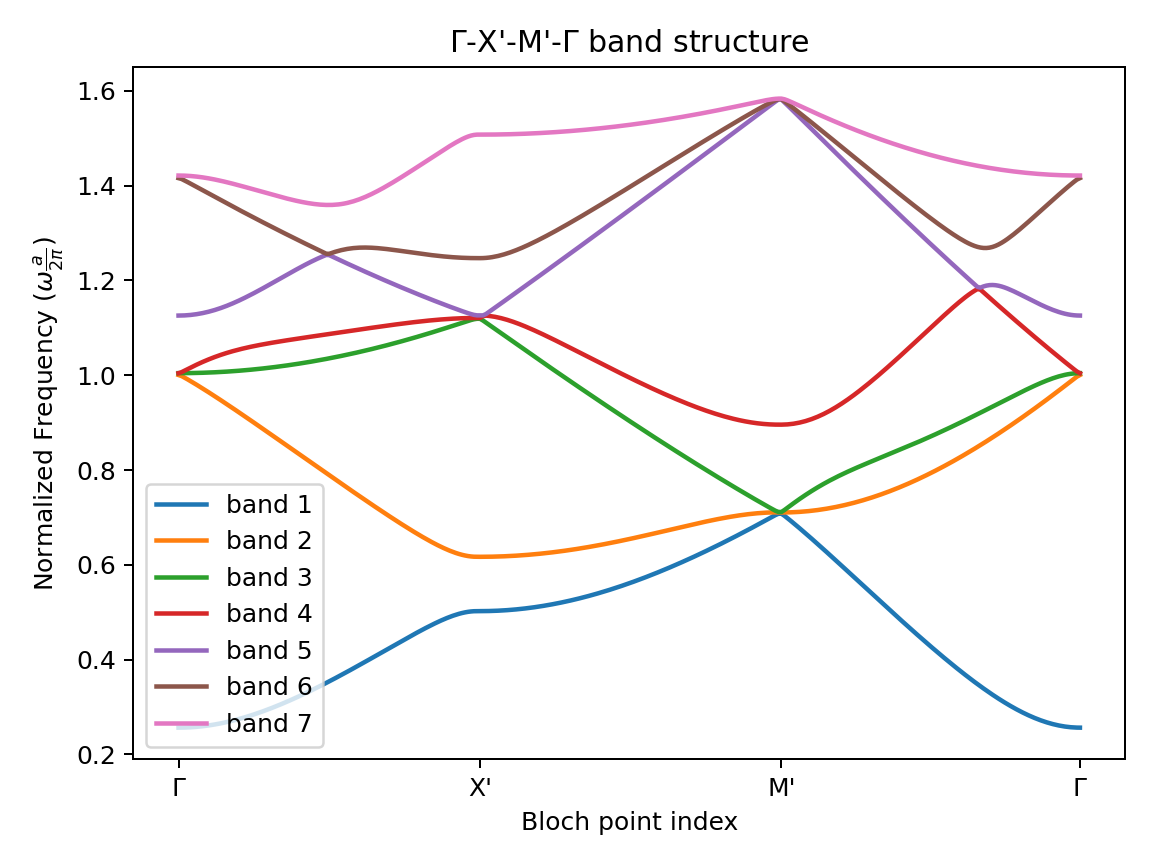
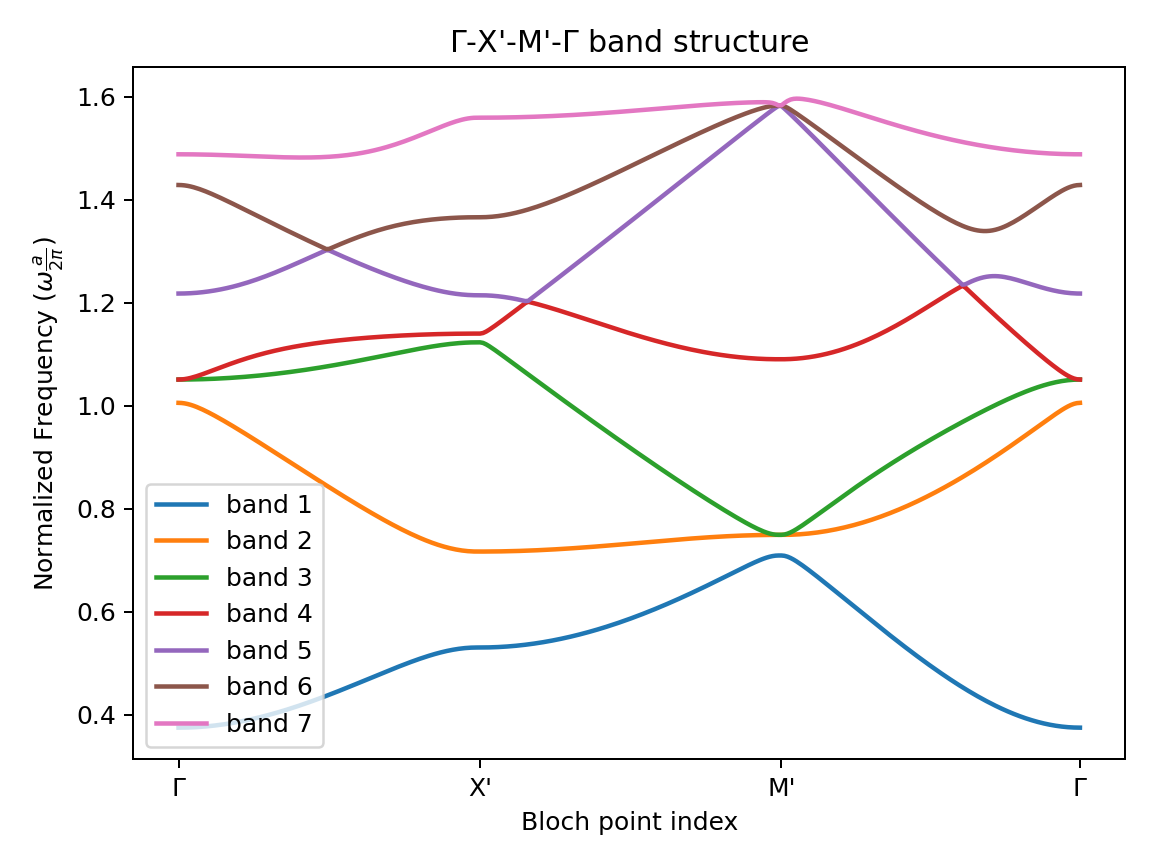
Better graphs and removed the printing labels on the graph.

diff --git a/Translated Code/matlab_translation/main.py b/Translated Code/matlab_translation/main.py
@@ -2,7 +2,7 @@ import sys
 from pathlib import Path
 
 import matplotlib
-# matplotlib.use("Agg")
+#matplotlib.use("Agg")
 matplotlib.use("QtAgg")
 import matplotlib.pyplot as plt
 import cupy as cp #Cupy
@@ -320,9 +320,14 @@ def _solve_lattice_point_bands(
                 n_bands,
             ) * lat_c / (2.0 * np.pi)
 
-    values_at_center = _lowest_characteristic_values(
-        matrices, kappa_center, n_bands
-    )
+    #values_at_center = _lowest_characteristic_values(
+       # matrices, kappa_center, n_bands
+    #)
+    values_at_center = (
+    _lowest_characteristic_values(matrices, kappa_center, n_bands)
+    * lat_c
+    / (2.0 * np.pi)
+)
     directions = {
         "kx": np.array([1.0, 0.0]),
         "ky": np.array([0.0, 1.0]),
@@ -556,27 +561,6 @@ def _plot_lattice_point_bands(
         s=55,
         label="M point",
     )
-    slopes = np.array(estimate["directional_gap_slopes"])[bands]
-    #slopes = estimate["directional_gap_slopes"]
-    slope_text = "\n".join(
-        f"{direction}: {slope:.4g}"
-        for direction, slope in slopes.items()
-    )
-    ax.text2D(
-        0.02,
-        0.98,
-        (
-            f"At {point_label}: " + r"$\lambda_1$" + f"={values_at_m[0]:.6g}, "
-            r"$\lambda_2$" + f"={values_at_m[1]:.6g}\n"
-            f"Direct gap={[f'{gap:.4g}' for gap in np.array(estimate['direct_gap'])[bands]]}\n"
-            f"Mean near-M gap slope={estimate['mean_gap_slope']:.4g}\n"
-            f"Directional slopes (d gap / d|k|):\n{slope_text}"
-        ),
-        transform=ax.transAxes,
-        va="top",
-        fontsize=8,
-        bbox={"facecolor": "white", "alpha": 0.8, "edgecolor": "none"},
-    )
     ax.set_xlabel(r"$\kappa_x/\pi$")
     ax.set_ylabel(r"$\kappa_y/\pi$")
     ax.set_zlabel(r"Normalized characteristic value ($\omega\frac{a}{2\pi}$)")
@@ -638,9 +622,9 @@ def plot_m_point_touching_bands(characteristic_values, kappa_x, kappa_y, estimat
     )
     
     
-def calc_m_point_lowest_touching(lat_c=1.0, PEC_radius=0.1):
+def calc_m_point_lowest_touching(lat_c=1.0, PEC_radius=0.1, mesh_size=0.02):
     M = np.array([np.pi / lat_c, np.pi / lat_c])
-    mesh_size = min(0.02, 0.5 * PEC_radius)
+    mesh_size = min(mesh_size, 0.5 * PEC_radius)
     matrices = _assemble_cell(lat_c=lat_c, mesh_size=mesh_size, PEC_radius=PEC_radius)
     characteristic_vals = _lowest_characteristic_values(matrices, M, 3)
     touching = characteristic_vals[1:3]
@@ -740,13 +724,15 @@ def compare_bands_2_and_3(lat_c=1.0, grid_size=21, mesh_size=0.02, PEC_radius=0.
     return fig, ax
 
 
-def compare_to_analytic_estimate(lat_c=1.0, radii=[0.25, 0.1, 0.01]):
+def compare_to_analytic_estimate(lat_c=1.0, radii=[0.25, 0.1, 0.01], mesh_size=0.02):
     # Compute touching characteristic values at M for several PEC inclusion radii and compare to analyic estimate.
     radii = [0.25, 0.1, 0.01]
     C_0 = 8* (np.pi**3)/(lat_c**3)
+    print(mesh_size)
     for eps in radii:
         estimate = 2*np.pi**2+C_0*(eps**2)
-        touching = calc_m_point_lowest_touching(lat_c=lat_c, PEC_radius=eps)
+        touching = calc_m_point_lowest_touching(lat_c=lat_c, PEC_radius=eps, mesh_size=mesh_size)
+        #fig, ax
         avg = np.mean(touching)
         print(f"Radius = {eps:.2f}   Touch @ M: {touching[0]:.6f}, {touching[1]:.6f}   Averaged: {avg:.6f}   Error Gap: {touching[1] - touching[0]:.6f}")
         # print(f"                Averaged:   {avg:.6f}")
@@ -764,12 +750,12 @@ def main():
     # Shared lattice/FEM setup: lattice constant a=1.0 and mesh spacing h=0.02.
     # Smaller h refines the mesh (and can shift results) at higher runtime cost.
     lat_c = 1.0
-    mesh_size = 0.02
+    mesh_size = 0.01
     
     # Compute touching characteristic values at M for several PEC inclusion radii and compare to analyic estimate.
-    compare_to_analytic_estimate(lat_c=lat_c, radii=[0.25,0.1,0.01])
+    compare_to_analytic_estimate(lat_c=lat_c, radii=[0.25,0.1,0.01], mesh_size = .01)
     
-    eps = 0.1  # radius of PEC inclusion
+    eps = 0.05  # radius of PEC inclusion
     matrices = _assemble_cell(lat_c=lat_c, mesh_size=mesh_size, PEC_radius=eps)
     
     # Surface plots!    
@@ -782,8 +768,8 @@ def main():
 
     # Band path: 100 samples on each of the path segments,
     # with the lowest 7 bands computed at every Bloch vector.
-    path_type =  "TX'M'T"  # or "MXTxM" or "TXMT"
-    path_samples = 200
+    path_type =  "TXMT" #"TX'M'T"  # or "MXTxM" or "TXMT"
+    path_samples = 100
     path_band_count = 7
     omega, _ = _solve_band_structure(
         matrices, lat_c, path_samples, path_band_count, path_type
